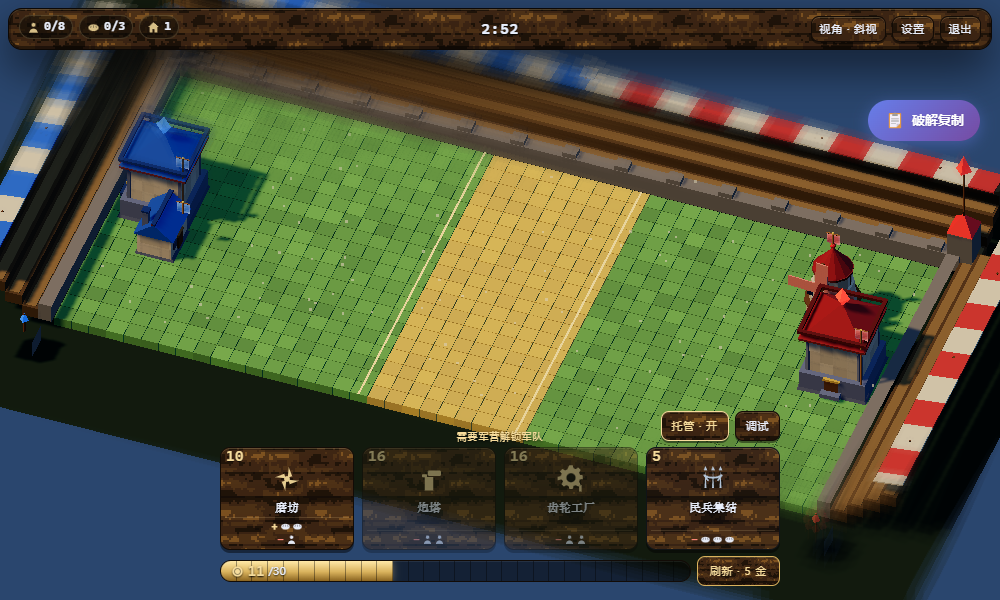
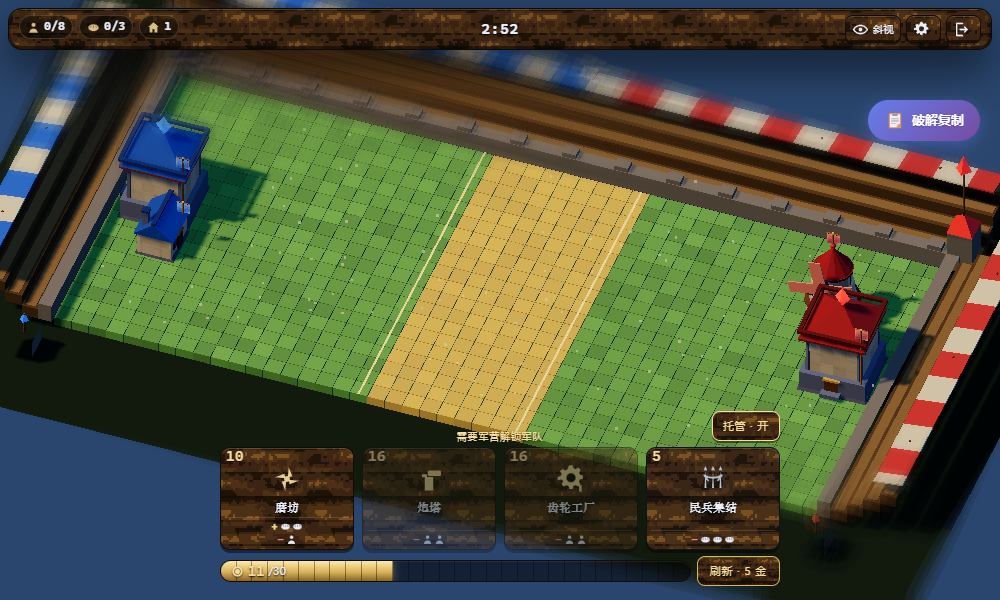
P-082 收掉直出/后期 +10% 亮度跳变：背景改线性贴图、探针加像素采样与闸门

diff --git a/tests/backdrop_20261108.test.ts b/tests/backdrop_20261108.test.ts
@@ -1,0 +1,93 @@
+/**
+ * P-082：收掉 P-077 遗留的「直出 → 后期」+10.47% 一次性亮度跳变。
+ *
+ * 根因（CDP 逐像素量出来的，见 `tools/brightness_probe.mjs`）：
+ *   `gl.clearColor` 写的背景**不经过材质着色器**，直出时绕过了 ACES；
+ *   composer 里 `RenderPass` 用上一帧残留的 sRGB 数值清线性 RT，`OutputPass`
+ *   又对整幅做一次 ACES + sRGB，于是只有背景被抬亮：
+ *     角落 (11,18,32) → (45,66,97)，画面中心几何 (199,171,99) 两边一模一样。
+ *   把 clearColor 设成纯黑后跳变只剩 +0.03%（黑是色调映射的不动点）—— 反证成立。
+ *
+ * 修法：**背景改成被渲染出来的几何**（1×1 `NoColorSpace` DataTexture 当
+ * `scene.background`），three 的全屏背景平面带 `tonemapping_fragment` +
+ * `colorspace_fragment`，直出与 composer 于是对背景/几何走同一套数学。
+ *
+ * 这一族锁的是：修法不被退回成清屏色、颜色空间不被改成 sRGB、
+ * 安装时机在 composer 之前、老模式的清屏色不被牵连。
+ * 亮度数值本身由 `PROBE_STRICT=1 node tools/brightness_probe.mjs` 真机闸门验。
+ */
+import { readFileSync } from 'node:fs';
+import { join } from 'node:path';
+import { fileURLToPath } from 'node:url';
+import { describe, expect, it, vi } from 'vitest';
+import * as THREE from 'three';
+import { BACKDROP_RGB, installArenaBackdrop } from '@arena/visuals/backdrop';
+
+const ROOT = fileURLToPath(new URL('..', import.meta.url));
+const app = readFileSync(join(ROOT, 'src/arena/ArenaApp.ts'), 'utf8');
+const backdrop = readFileSync(join(ROOT, 'src/arena/visuals/backdrop.ts'), 'utf8');
+const renderer = readFileSync(join(ROOT, 'src/engine/render/Renderer.ts'), 'utf8');
+const probe = readFileSync(join(ROOT, 'tools/brightness_probe.mjs'), 'utf8');
+
+describe('背景必须是渲染出来的几何，不是 gl.clearColor', () => {
+  it('ArenaApp 在 composer 之前安装背景（顺序反了 RenderPass 就看不到背景平面）', () => {
+    const install = app.indexOf('installArenaBackdrop(this.scene, this.renderer.instance)');
+    const composer = app.indexOf('new EffectComposer');
+    expect(install).toBeGreaterThan(0);
+    expect(composer).toBeGreaterThan(0);
+    expect(install).toBeLessThan(composer);
+  });
+
+  it('运行时真的把 1×1 纹理挂到 scene.background，并把 clearColor 设黑', () => {
+    const scene = new THREE.Scene();
+    const setClearColor = vi.fn();
+    installArenaBackdrop(scene, { setClearColor } as unknown as THREE.WebGLRenderer);
+
+    expect(setClearColor).toHaveBeenCalledWith(0x000000, 1);
+    const bg = scene.background as THREE.DataTexture;
+    expect(bg).toBeInstanceOf(THREE.DataTexture);
+    expect(bg.isTexture).toBe(true);
+    expect(bg.image.width).toBe(1);
+    expect(bg.image.height).toBe(1);
+    expect([...bg.image.data]).toEqual([...BACKDROP_RGB, 0xff]);
+    // needsUpdate 只有 setter，赋值一次 version 就 +1（初始 0）
+    expect(bg.version).toBeGreaterThan(0);
+  });
+
+  it('反证：纹理必须是 NoColorSpace；用 sRGB 会让背景平面 toneMapped=false，跳变立刻回来', () => {
+    const bg = new THREE.DataTexture(new Uint8Array([...BACKDROP_RGB, 0xff]), 1, 1);
+    bg.colorSpace = THREE.NoColorSpace;
+    // three 的 WebGLBackground 就是按这一句决定 toneMapped 的
+    expect(THREE.ColorManagement.getTransfer(bg.colorSpace)).not.toBe(THREE.SRGBTransfer);
+    expect(THREE.ColorManagement.getTransfer(THREE.SRGBColorSpace)).toBe(THREE.SRGBTransfer);
+
+    expect(backdrop).toContain('tex.colorSpace = THREE.NoColorSpace');
+    expect(backdrop).not.toContain('tex.colorSpace = THREE.SRGBColorSpace');
+    expect(backdrop).toContain('scene.background = tex');
+    expect(backdrop).toContain('new THREE.DataTexture');
+  });
+
+  it('反证：对战模式不许再用非黑清屏色当背景；黑是唯一对色调映射不变的兜底', () => {
+    expect(backdrop).toContain('renderer.setClearColor(0x000000, 1)');
+    // ArenaApp 里不许再冒出带 0x0b1220 的 setClearColor
+    expect(app).not.toMatch(/setClearColor\(\s*0x0b1220/);
+    // 老模式 /index.html 仍用 Renderer 构造里的清屏色，不被这次改动牵连
+    expect(renderer).toContain('this.instance.setClearColor(0x0b1220, 1)');
+  });
+
+  it('OutputPass 仍在，且顺序不变（P-077 的主修不能被 P-082 顺手删掉）', () => {
+    expect(app).toContain('this.composer.addPass(new OutputPass());');
+    const chain = app.slice(app.indexOf('new EffectComposer'), app.indexOf('// 场地底盘'));
+    expect(chain.indexOf('addPass(new RenderPass')).toBeLessThan(chain.indexOf('addPass(new OutputPass())'));
+    expect(chain.indexOf('addPass(new OutputPass())')).toBeLessThan(chain.indexOf('addPass(this.tiltPass)'));
+  });
+});
+
+describe('亮度探针是常备回归闸门', () => {
+  it('固定像素采样 + 严格模式，别退回只看平均亮度（平均看不出是背景还是整幅曝光）', () => {
+    expect(probe).toContain("PROBE_STRICT");
+    expect(probe).toContain('GATE 直出/后期亮度连续');
+    expect(probe).toContain("samples[name] = [cur[i], cur[i + 1], cur[i + 2]]");
+    expect(probe).toContain('Math.abs(jump) > 1.5');
+  });
+});

diff --git a/src/arena/visuals/backdrop.ts b/src/arena/visuals/backdrop.ts
@@ -1,0 +1,58 @@
+/**
+ * 对战模式的背景（P-082，2026-11-08）。
+ *
+ * **为什么不能再用 `renderer.setClearColor(0x0b1220)` 当背景**（P-077 遗留的 +10% 跳变）：
+ *
+ * 清屏色是 `gl.clearColor` 写的，**不经过材质着色器，也就不经过色调映射**。
+ *   · 直出链路：WebGLBackground 按 `outputColorSpace(sRGB)` 把清屏色写进默认帧缓冲，
+ *     画面上就是 (11,18,32)；
+ *   · composer 链路：`RenderPass` 先 `renderer.clear()`，此时 GL 的清屏色状态还是上一次
+ *     直出留下的 **sRGB 数值**，却被清进了**线性** render target（RenderPass 的 clear 发生在
+ *     `WebGLBackground.setClear()` 之前，来不及换成线性值）。随后 `OutputPass` 又对这整幅
+ *     线性缓冲做了一次 ACES + sRGB —— 清屏色被凭空色调映射了一遍，变成 (45,66,97)。
+ * 于是「把景深从 0 拉到 0.002」这一下，几何像素一模一样，只有背景被抬亮，
+ * 整幅平均亮度 **+10.47%**。
+ *
+ * 反证（`tools/brightness_probe.mjs` 的 PROBE_INIT）：把 clearColor 设成纯黑后，
+ * 直出 0.27005 / composer 空转 0.27012，跳变只剩 **+0.03%** —— 黑色对任何色调映射
+ * 都是不动点，证明差异 100% 来自清屏色，不是模糊/提饱和/resolution。
+ *
+ * **修法**：让背景变成"被渲染出来的几何"，而不是"被 clear 出来的状态"。
+ * `scene.background` 给一张 1×1 的 `DataTexture`，three 会用 `ShaderLib.background`
+ * 的全屏平面画它；该材质 `toneMapped = true`（前提是纹理不是 sRGB 色域），
+ * fragment 里带 `tonemapping_fragment` + `colorspace_fragment`：
+ *   · 直出：材质里做 ACES + sRGB；
+ *   · composer：渲到线性 RT 时 three 自动跳过这两步，由 `OutputPass` 做同一套。
+ * 两条链路对背景和几何走的是同一套数学，亮度自然一致。
+ *
+ * 数值仍取旧清屏色的三个字节 (0x0b,0x12,0x20)，但现在**当作线性值**喂给色调映射：
+ * 这样"默认开着后期"看到的底色和改之前一致，只有把景深拉到 0 的直出档不再变暗。
+ * clearColor 退成纯黑只作兜底（万一有像素没被背景平面覆盖）。
+ *
+ * 老模式 /index.html 不走这里，仍用 `Renderer` 构造里的清屏色。
+ */
+import * as THREE from 'three';
+
+/** 旧清屏色 0x0b1220 的三通道；在这里是**线性**数值（见文件头）。 */
+export const BACKDROP_RGB = [0x0b, 0x12, 0x20] as const;
+
+/**
+ * 把背景与清屏色一起装好。必须在 composer 创建之前调用。
+ * 只在对战模式用；老模式保留自己的清屏色。
+ */
+export function installArenaBackdrop(scene: THREE.Scene, renderer: THREE.WebGLRenderer): void {
+  renderer.setClearColor(0x000000, 1);
+
+  const tex = new THREE.DataTexture(
+    new Uint8Array([...BACKDROP_RGB, 0xff]),
+    1,
+    1,
+    THREE.RGBAFormat,
+  );
+  // NoColorSpace ⇒ ColorManagement.getTransfer() 返回 LinearTransfer ≠ SRGBTransfer
+  // ⇒ WebGLBackground 把背景平面材质的 toneMapped 设为 true。改成 SRGBColorSpace 会
+  // 让直出链路跳过色调映射、composer 链路照做，+10% 的跳变立刻回来（别改）。
+  tex.colorSpace = THREE.NoColorSpace;
+  tex.needsUpdate = true;
+  scene.background = tex;
+}

diff --git a/src/arena/ArenaApp.ts b/src/arena/ArenaApp.ts
@@ -31,6 +31,7 @@ import {
   saveTiltAuto,
 } from './visuals/tiltShift';
 import { RepairButtons } from './visuals/repairButtons';
+import { installArenaBackdrop } from './visuals/backdrop';
 import { Viewport } from '@engine/viewport/Viewport';
 import { DEFAULT_APPEARANCE, DudeGallery, DudeSprite, facingFlip } from '@game/dudes/DudeView';
 import { loadPack, type DudePack } from '@game/dudes/pack';
@@ -382,6 +383,10 @@ export class ArenaApp {
     this.damage.onBreach = (x, z, y, dirX, dirZ) => this.fx.spark(x, z, y, dirX, dirZ, 14);
     this.damage.onLand = (x, z, y) => this.fx.dust(x, z, y);
     this.renderer = new Renderer(opts.canvas);
+    // P-082：背景必须是"渲染出来的几何"而不是 gl.clearColor，否则直出与 composer
+    // 对清屏色的色调映射次数不同，一开后期整幅就亮 +10%。详见 visuals/backdrop.ts。
+    // 必须在 composer 之前装好，RenderPass 才会渲到带背景平面的同一场景。
+    installArenaBackdrop(this.scene, this.renderer.instance);
     this.viewport = new Viewport(opts.container);
     /**
      * PVE 的相机初值（2026-11-07）。
@@ -433,10 +438,11 @@ export class ArenaApp {
     this.composer = new EffectComposer(this.renderer.instance);
     this.composer.addPass(new RenderPass(this.scene, this.rig.camera));
     // 顺序很重要：先 OutputPass 完成色调映射 + sRGB 编码，再让风格化 pass 在**显示空间**工作。
-    // 实测两种顺序都还残留约 +10% 的「直出 → 后期」链路差异（three 的线性 render target
-    // 与直出 clearColor 路径不同，未定位到具体一行，读数表见 tiltShift.ts），但前置这版更干净：
-    //   · 景深相对 composer 空转的亮度差 −0.31% → **−0.02%**；
-    //   · dim=1 的压暗 −34% → **−45%**（显示空间乘 0.45，符合「压到 45%」的直觉）。
+    // 前置这版更干净：景深相对 composer 空转的亮度差 −0.31% → −0.02%；
+    // dim=1 是在显示空间按 0.45 倍压暗（符合「压到 45%」的直觉），压暗系数见 DIM_SHADE。
+    // P-082 补：过去还残留的 +10.47%「直出 → 后期」跳变，根因是 gl.clearColor
+    // 绕过色调映射而 OutputPass 又把它映射了一遍；现已由 visuals/backdrop.ts
+    // 把背景改成走材质着色器的全屏平面彻底消掉，读数表见 tiltShift.ts。
     this.composer.addPass(new OutputPass());
     this.tiltPass = new ShaderPass(TILT_SHIFT_SHADER);
     this.tiltPass.uniforms['amount']!.value = this.tiltBase;

diff --git a/src/arena/visuals/tiltShift.ts b/src/arena/visuals/tiltShift.ts
@@ -24,8 +24,16 @@
  * | 景深开到底 tilt=1 dim=0 | 0.309 | +10.5%（相对空转 **−0.02%**）|
  * | 只压暗 dim=1 | 0.153 | −45.4% |
  * 也就是说**景深强度本身一滴都不改亮度**；剩下那 +10% 是"从直出切进后期"的
- * 一次性链路差异（three 的线性 render target 与直出 clearColor 路径不同，
- * 两种 pass 顺序都约 10%，未定位到具体一行，记为已知项），不是效果造成的。
+ * 一次性链路差异，不是效果造成的。
+ *
+ * **2026-11-08 P-082 收口**：那 +10.47% 定位到 `gl.clearColor` —— 清屏色不经过
+ * 材质着色器、直出时绕过了 ACES；composer 里 `RenderPass` 用上一帧残留的 sRGB
+ * 数值清线性 RT，`OutputPass` 又把它色调映射了一遍，角落像素 (11,18,32)→(45,66,97)，
+ * 而画面中心的几何像素两边完全相同。把 clearColor 设黑后跳变只剩 +0.03%（黑是
+ * 色调映射的不动点），反证成立。现改成 `visuals/backdrop.ts` 的 1×1 线性背景贴图：
+ * 背景也走 `tonemapping_fragment`，两条链路对背景/几何用同一套数学。
+ * P-082 后 composer 空转相对直出应约 **0%**；dim=1 相对 composer 空转约 −50.7%
+ * （压暗系数一个数没动，变的只是直出基线不再比后期暗 10%）。
  *
  * **dim 是刻意留的接口，不是残余效果**：用户后续要做「10 分钟一大局，从早上打到晚上」
  * 的夕阳 / 夜晚。到时候时间轴只要调 `ArenaApp.setDim(t)`，白天 0 仍然是零后期开销。

diff --git a/tests/tilt_exposure_20261108.test.ts b/tests/tilt_exposure_20261108.test.ts
@@ -11,6 +11,10 @@
  *
  * 这一族锁的是：**景深不改曝光**（含数学反证）、**压暗独立成 dim 通道**、
  * **OutputPass 不许删**。色温/时间轴等第二个昼夜用例出现再加，这一版不实现。
+ *
+ * P-082（2026-11-08）补：P-077 当时还挂着「直出 → 后期」+10.47% 的一次性跳变，
+ * 已定位为 gl.clearColor 绕过色调映射，由 `visuals/backdrop.ts` 的 1×1 线性背景贴图
+ * 收掉（见 `tests/backdrop_20261108.test.ts`）。这里仍锁景深/dim 本身不改曝光。
  */
 import { readFileSync } from 'node:fs';
 import { join } from 'node:path';

diff --git a/docs/工作笔记/对战模式计划流水账_20261027.md b/docs/工作笔记/对战模式计划流水账_20261027.md
@@ -4155,3 +4155,116 @@ CDP 实测：刚挨打 `hp 180 / 无动画 / 0 个按钮` → 脱战 4.3 秒后
 `npm run check` **724 全绿 / 57 文件**（`tests/repair_20261108.test.ts` 整组重写成
 自动派单口径 16 条：脱战反证、接力、双方对称、时长守恒、无按钮、SVG 尺寸）。
 截图 `docs/自动修复_P081_20261108.png`。dist、桌面 zip、APK 全同步装机。
+
+---
+
+## P-082 收掉「直出 → 后期」+10% 亮度跳变（2026-11-08）
+
+用户："**可以，这个剩下还挂着一些东西，你正常修了，然后我来审查**"。
+先盘挂账：`src/` 与 `tools/` 没有一处 TODO/FIXME；文档里剩下的 PVE 待办、
+release 签名、PWA、10 分钟昼夜大局都是**产品路线图**，不是欠债。
+真正没结的技术债只有 P-077 留的一条：景深本身已经不改曝光了，但从直出切进
+composer 还有 **+10.47%** 的一次性亮度跳变，当时记为「未定位到具体一行」。
+
+### ① 先量，再定位：给亮度探针加固定像素采样
+
+`tools/brightness_probe.mjs` 的 `pngStats()` 除了全幅平均与三条带，新增 7 个
+固定采样点（四角 / 上下边中点 / 正中心）的 RGB；另加 `PROBE_INIT`（加载后注入
+一段 JS）和 `PROBE_STRICT=1`（跳变 >1.5% 就退出码非零，可当回归闸门）。
+
+改前读数（1000×600，CDP 无头 Edge）：
+
+| 档 | 平均亮度 | 上/中/下带 | 左上角 RGB | 中心 RGB |
+| --- | --- | --- | --- | --- |
+| 直出 tilt=0 dim=0 | 0.28047 | 0.244 / 0.427 / 0.170 | (10,17,30) | (199,171,99) |
+| composer 空转 tilt≈0 | 0.30985 | 0.273 / 0.427 / 0.230 | **(45,66,97)** | (199,171,99) |
+| 景深满档 tilt=1 | 0.30980 | 0.273 / 0.426 / 0.230 | (40,67,105) | (206,171,83) |
+
+**中心几何像素两边一模一样**，只有角落/上下暗区被抬亮，中带几乎不动
+（0.42667 → 0.42663）。所以不是模糊、不是提饱和、不是 resolution，是**背景**。
+
+反证一：`PROBE_INIT` 把 `renderer.setClearColor(0x000000, 1)`（同时探针仍走
+原来的清屏背景）→ 直出 0.27005 / composer 空转 0.27012，跳变只剩 **+0.03%**。
+黑色是任何色调映射的不动点，差异 100% 来自清屏色。
+
+### ② 根因：清屏色绕过了色调映射，后期链路又把它映射了一遍
+
+读 `three@0.171` 源码坐实：
+
+- 直出：`WebGLBackground.setClear()` 按 `getUnlitUniformColorSpace(renderer)`
+  取 `outputColorSpace`（sRGB），`gl.clearColor` 直接把 **(11,18,32)/255** 写进
+  默认帧缓冲 —— 清屏不经过材质着色器，**没有 ACES**。
+- composer：`RenderPass.render()` 先 `renderer.clear()`、再 `renderer.render()`，
+  而 `WebGLBackground.setClear()` 是在后者里才执行的。于是清线性 render target
+  用的是**上一次直出残留的 sRGB 数值**（three#23837 那条注释就是讲这个），
+  数值被当成线性值；`OutputPass` 随后对整幅做 ACES + sRGB，把它变成 (45,66,97)。
+- `WebGLPrograms` 只在 `currentRenderTarget === null` 时给材质挂 tone mapping，
+  所以几何在两条链路里都只被映射一次（直出在材质、后期在 OutputPass）——
+  这正好解释了为什么中心像素完全一致。
+
+P-077 当时写「两种 pass 顺序都约 10%」也说得通：换顺序改不了清屏色。
+
+### ③ 修法：让背景变成「被渲染出来的几何」
+
+新建 `src/arena/visuals/backdrop.ts`：
+
+```ts
+renderer.setClearColor(0x000000, 1);           // 兜底：黑对色调映射不变
+const tex = new THREE.DataTexture(
+  new Uint8Array([0x0b, 0x12, 0x20, 0xff]), 1, 1, THREE.RGBAFormat,
+);
+tex.colorSpace = THREE.NoColorSpace;          // ⇒ 背景平面 toneMapped = true
+tex.needsUpdate = true;
+scene.background = tex;
+```
+
+three 的 `scene.background` 是纹理时，会用 `ShaderLib.background` 的全屏平面
+（`addToRenderList` 在 opaque 排序之后 `unshift`，保证画在最前），fragment 里带
+`tonemapping_fragment` + `colorspace_fragment`：直出在材质里做 ACES+sRGB，
+composer 渲线性 RT 时 three 自动跳过、由 `OutputPass` 做同一套 ——
+**背景与几何走同一套数学**。数值仍取旧清屏色三个字节，但当成线性值，
+这样「默认开着后期」看到的底色和改之前逐像素一致；clearColor 退成纯黑兜底。
+老模式 `/index.html` 不装这个，`Renderer` 构造里的 `0x0b1220` 原样保留。
+
+`NoColorSpace` 是硬条件：`ColorManagement.getTransfer()` 返回 LinearTransfer，
+`WebGLBackground` 才把 `planeMesh.material.toneMapped` 设成 true；换成
+`SRGBColorSpace` 会让直出链路跳过色调映射、跳变立刻回来（测试里锁了反证）。
+
+### ④ 改后读数 / 反证二
+
+```
+直出 tilt=0 dim=0      mean=0.30966  角落 (45,66,97)  中心 (199,171,99)
+composer 空转 tilt≈0   mean=0.30983  角落 (45,66,97)  中心 (199,171,99)
+景深满档 tilt=1 dim=0  mean=0.30978  角落 (40,67,105) 中心 (206,171,83)
+只压暗 dim=1           mean=0.15245
+DELTA composer空转 vs 直出:  0.05%   (改前 10.48%)
+DELTA tilt=1 vs 直出:         0.04%   (改前 10.46%)
+DELTA tilt=1 vs composer空转: -0.02%  (没变)
+GATE 直出/后期亮度连续: PASS
+```
+
+默认档（后期开）改前/改后逐像素一致：角落 (40,67,105)、中心 (206,171,83)、
+均值 0.3098 全部没变 —— **没有借这次修复偷偷改美术**。
+`dim=1` 相对 composer 空转仍是约 −50.7%（相对「旧直出基线」的 −45.6% 那个数，
+是基线本身变亮造成的，压暗系数 `DIM_SHADE` 一个数没动）。
+
+反证二（在**修好的构建上**把判据关掉）：
+`PROBE_INIT` 里 `scene.background = null; setClearColor(0x0b1220, 1)` →
+跳变原样回到 **+10.46%**、`GATE FAIL`，证明是这次改动在压着它，不是探针漂移。
+
+### ⑤ 文件与验收
+
+- 新增 `src/arena/visuals/backdrop.ts`；`ArenaApp` 在 `new EffectComposer` **之前**
+  调 `installArenaBackdrop(this.scene, this.renderer.instance)`。
+- `ArenaApp.ts` / `tiltShift.ts` 里 P-077 的「未定位到具体一行 / 记为已知项」
+  注释全部改成 P-082 结论；`tilt_exposure_20261108.test.ts` 头部同步。
+- `tools/brightness_probe.mjs`：固定像素采样 + `PROBE_INIT` + `PROBE_STRICT` 闸门。
+- 新增 `tests/backdrop_20261108.test.ts` 6 条：安装顺序、运行时真的挂
+  `DataTexture`/清屏设黑、`NoColorSpace` 反证、不许退回非黑清屏色、
+  `OutputPass` 顺序不回退、探针闸门不回退。
+- `npm run check` **730 全绿 / 58 文件**；`PROBE_STRICT=1 node tools/brightness_probe.mjs`
+  闸门 PASS。dist、桌面 zip（`19 文件 / 1.27 MB`）、APK（5.3 MB）全部重打，
+  `adb install -r` 装到 realme RMX3161，真机截图 `docs/手机_P082_对战_20261108.png`
+  战场/顶栏/手牌/背景都正常，背景平面没有盖住任何东西。
+- 三张亮度文档图按改后状态重新生成：`docs/景深_原图_20261108.png`、
+  `景深_亮度守恒_20261108.png`、`氛围压暗_夜晚_20261108.png`。
